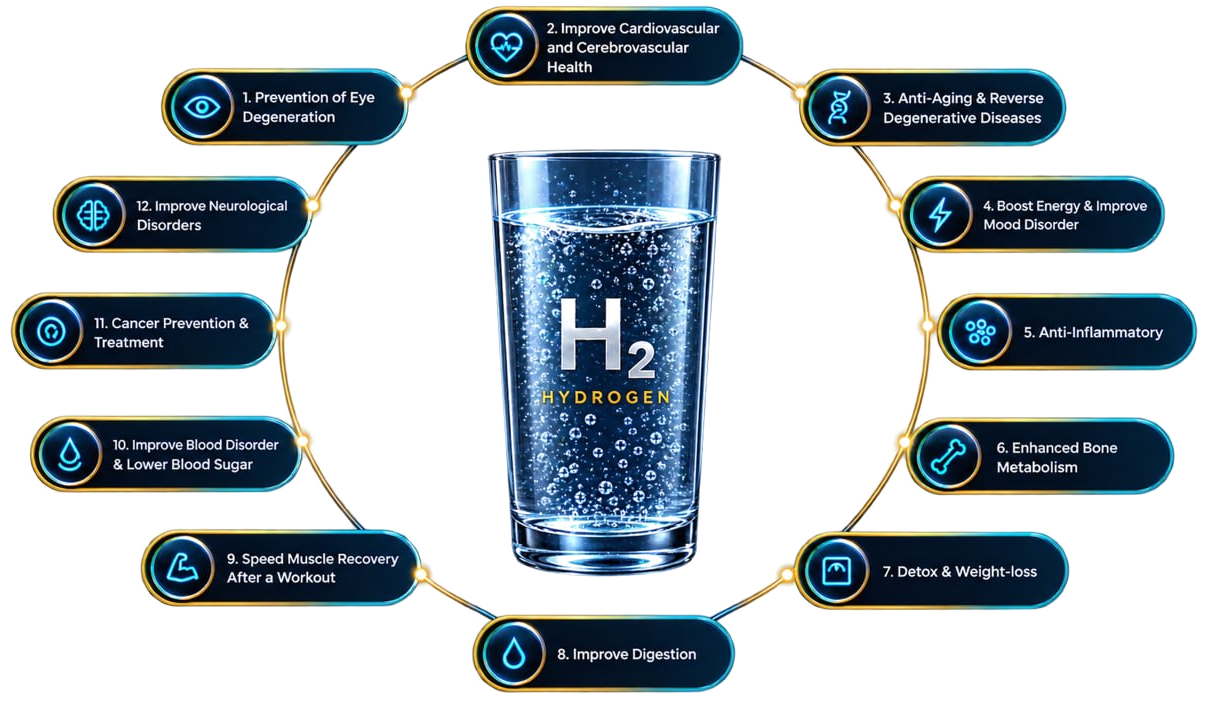
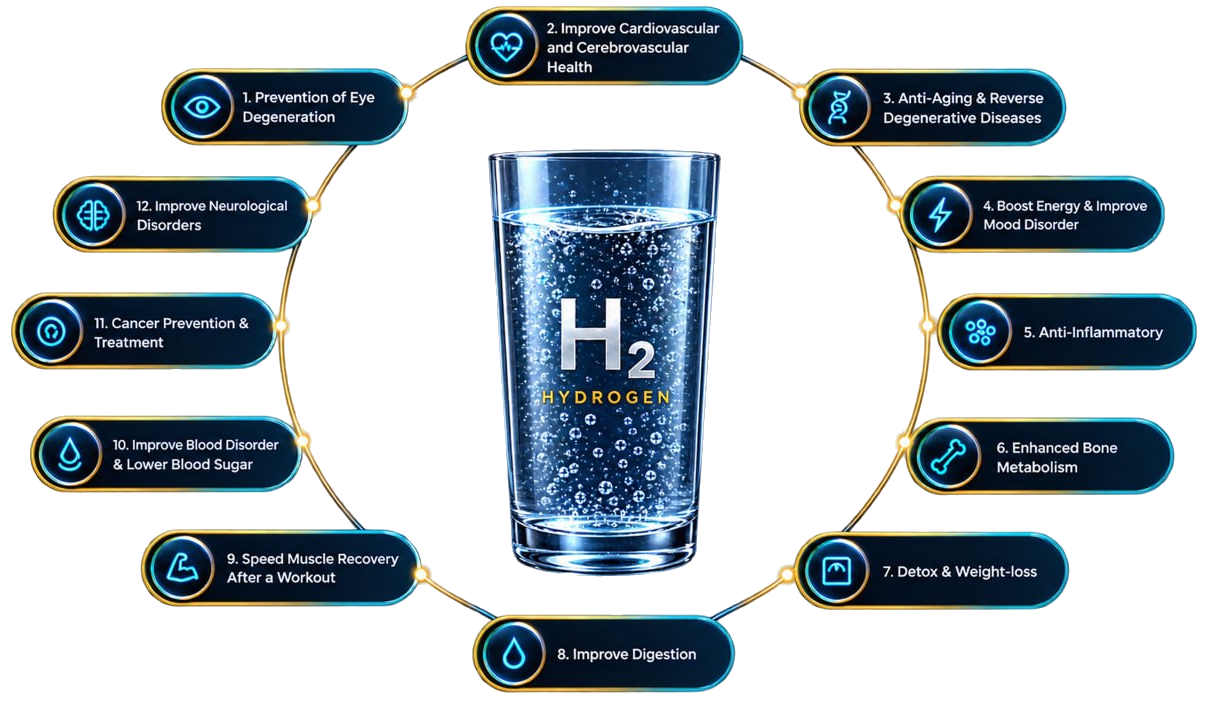
assets: sharpen hydrogen benefits infographic

diff --git a/index.html b/index.html
@@ -175,7 +175,7 @@
         <p style="margin: clamp(18px, 2vw, 24px) auto 0; max-width: 760px; font-size: clamp(16px, 1.25vw, 19px); line-height: 1.68; color: rgba(242,241,238,0.68); text-wrap: pretty;">Water Source Hydrogen-rich water, made meaningful for everyday wellness. Before you choose a water system, it helps to understand why Water Source hydrogen-rich water matters. It turns everyday hydration into a more intentional wellness ritual — supporting antioxidant balance, active recovery, energy habits and daily vitality with every glass.</p>
       </div>
 
-      <figure style="margin: 0 auto clamp(34px, 5vw, 60px); max-width: 1040px;">
+      <figure style="margin: 0 auto clamp(34px, 5vw, 60px); max-width: 1208px;">
         <img src="assets/h001-hydrogen-water-benefits-transparent.png" alt="H₂ Hydrogen water wellness benefit overview" style="display: block; width: 100%; height: auto;" loading="eager" />
       </figure>
 
